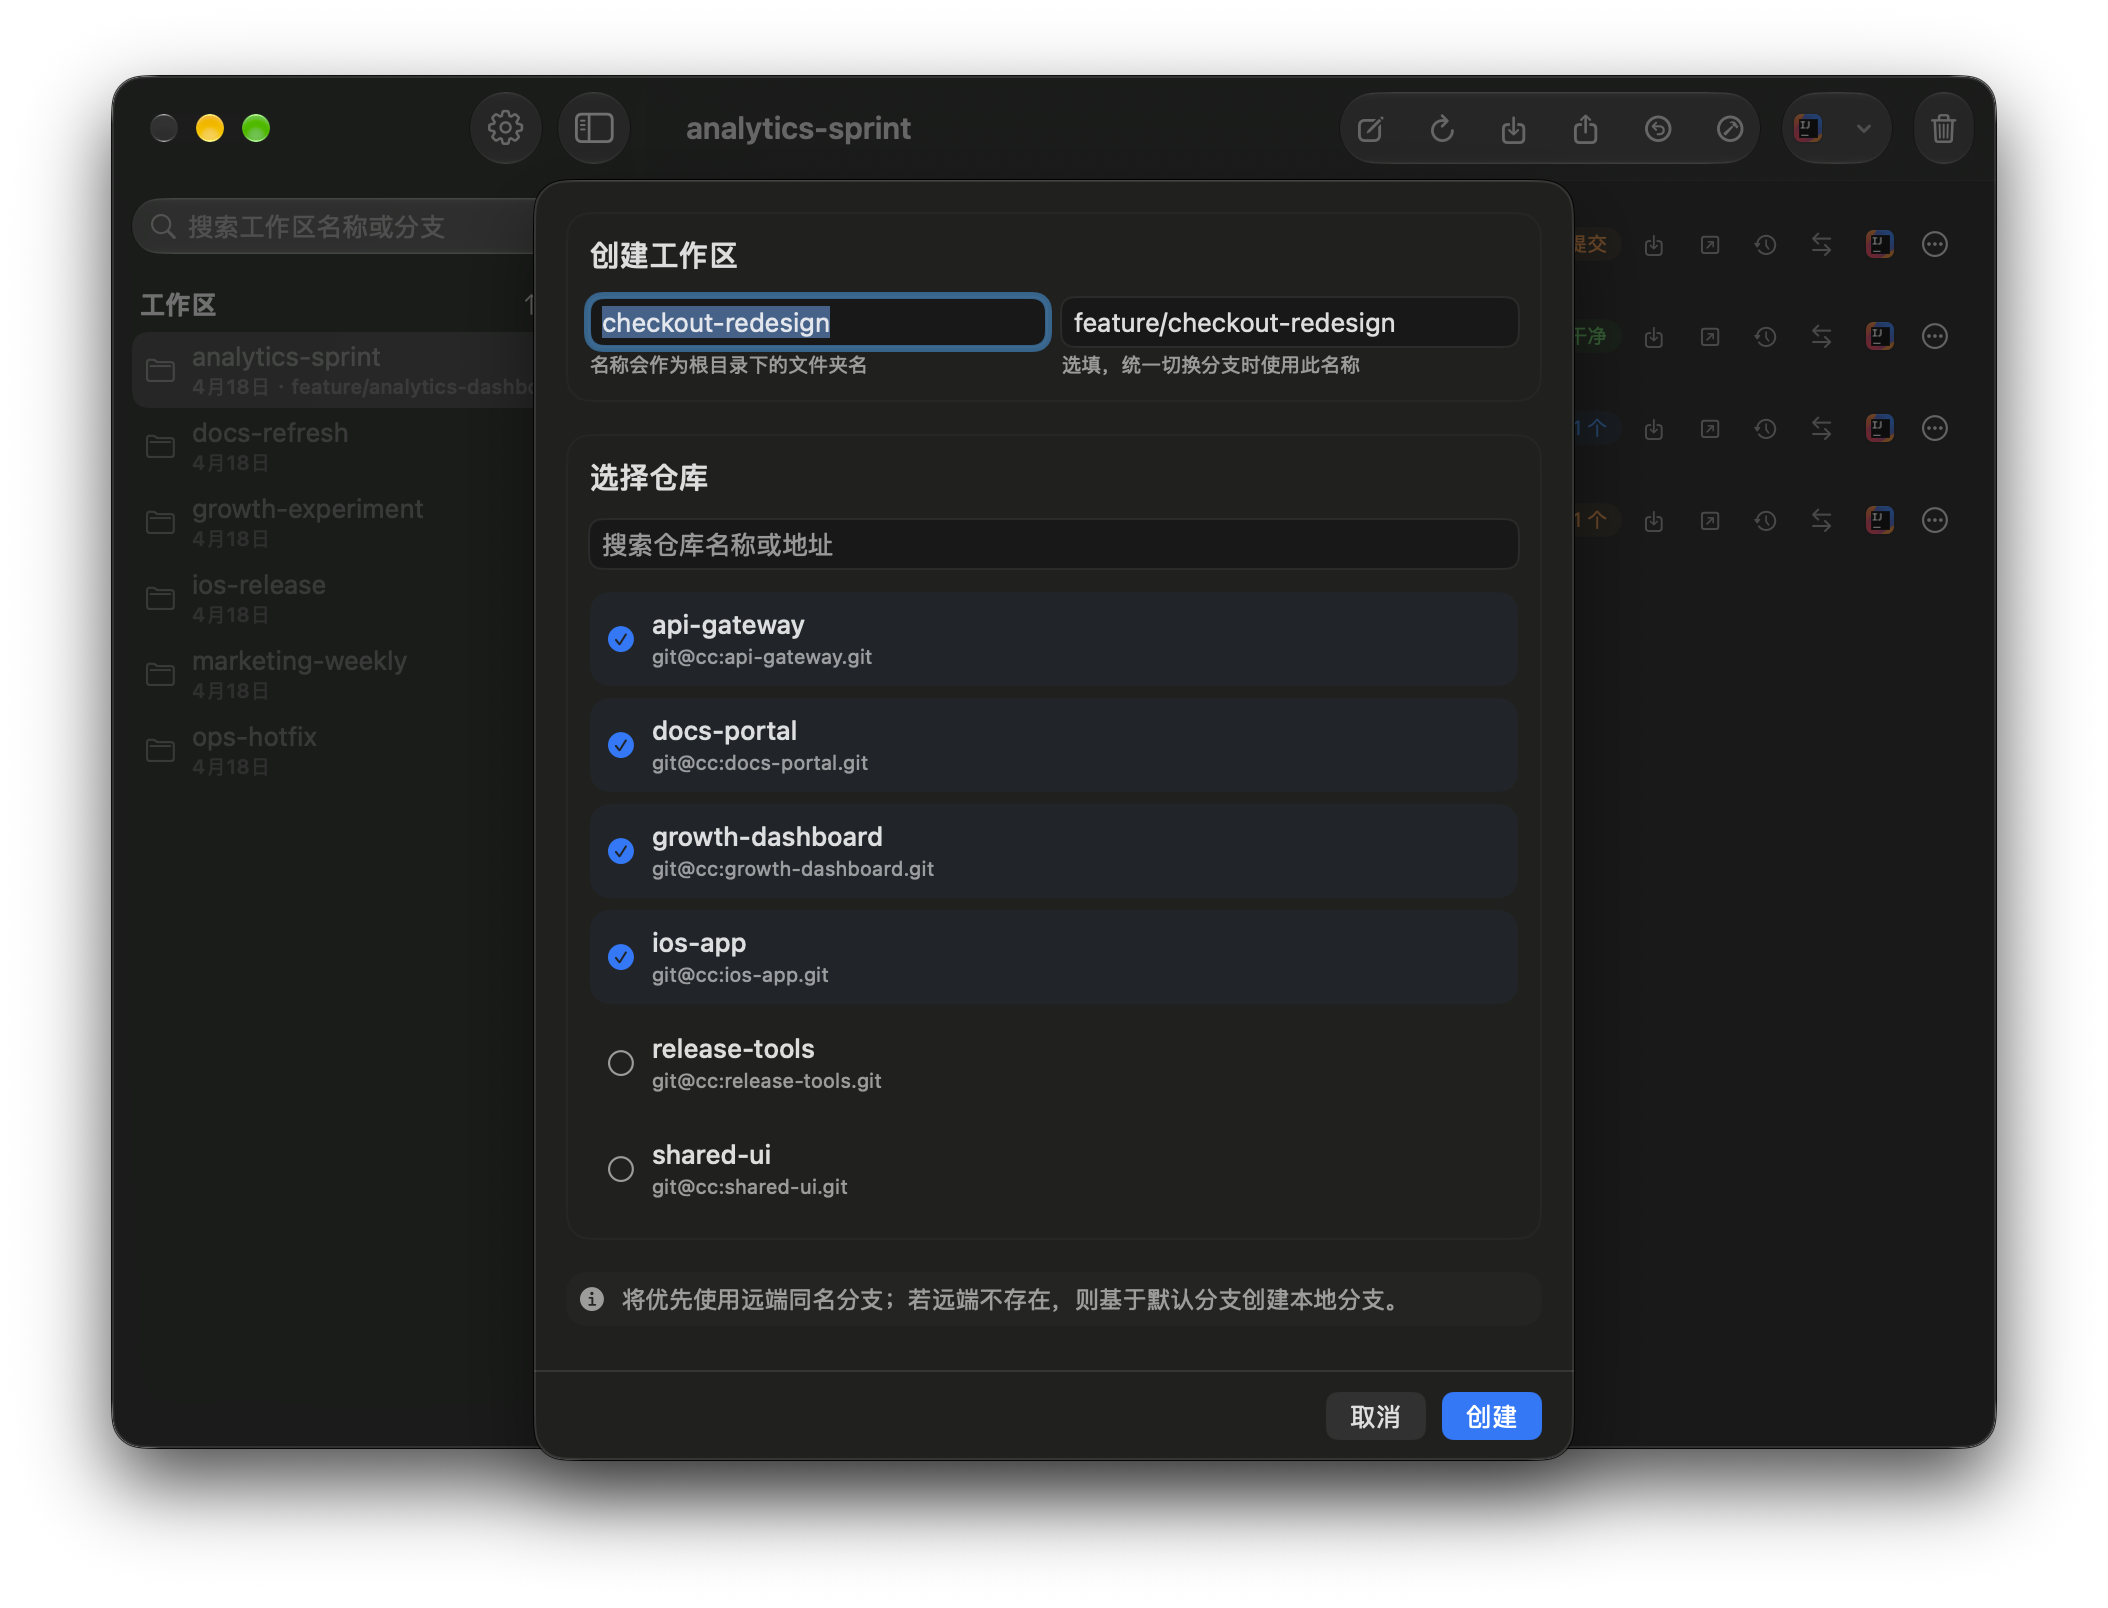
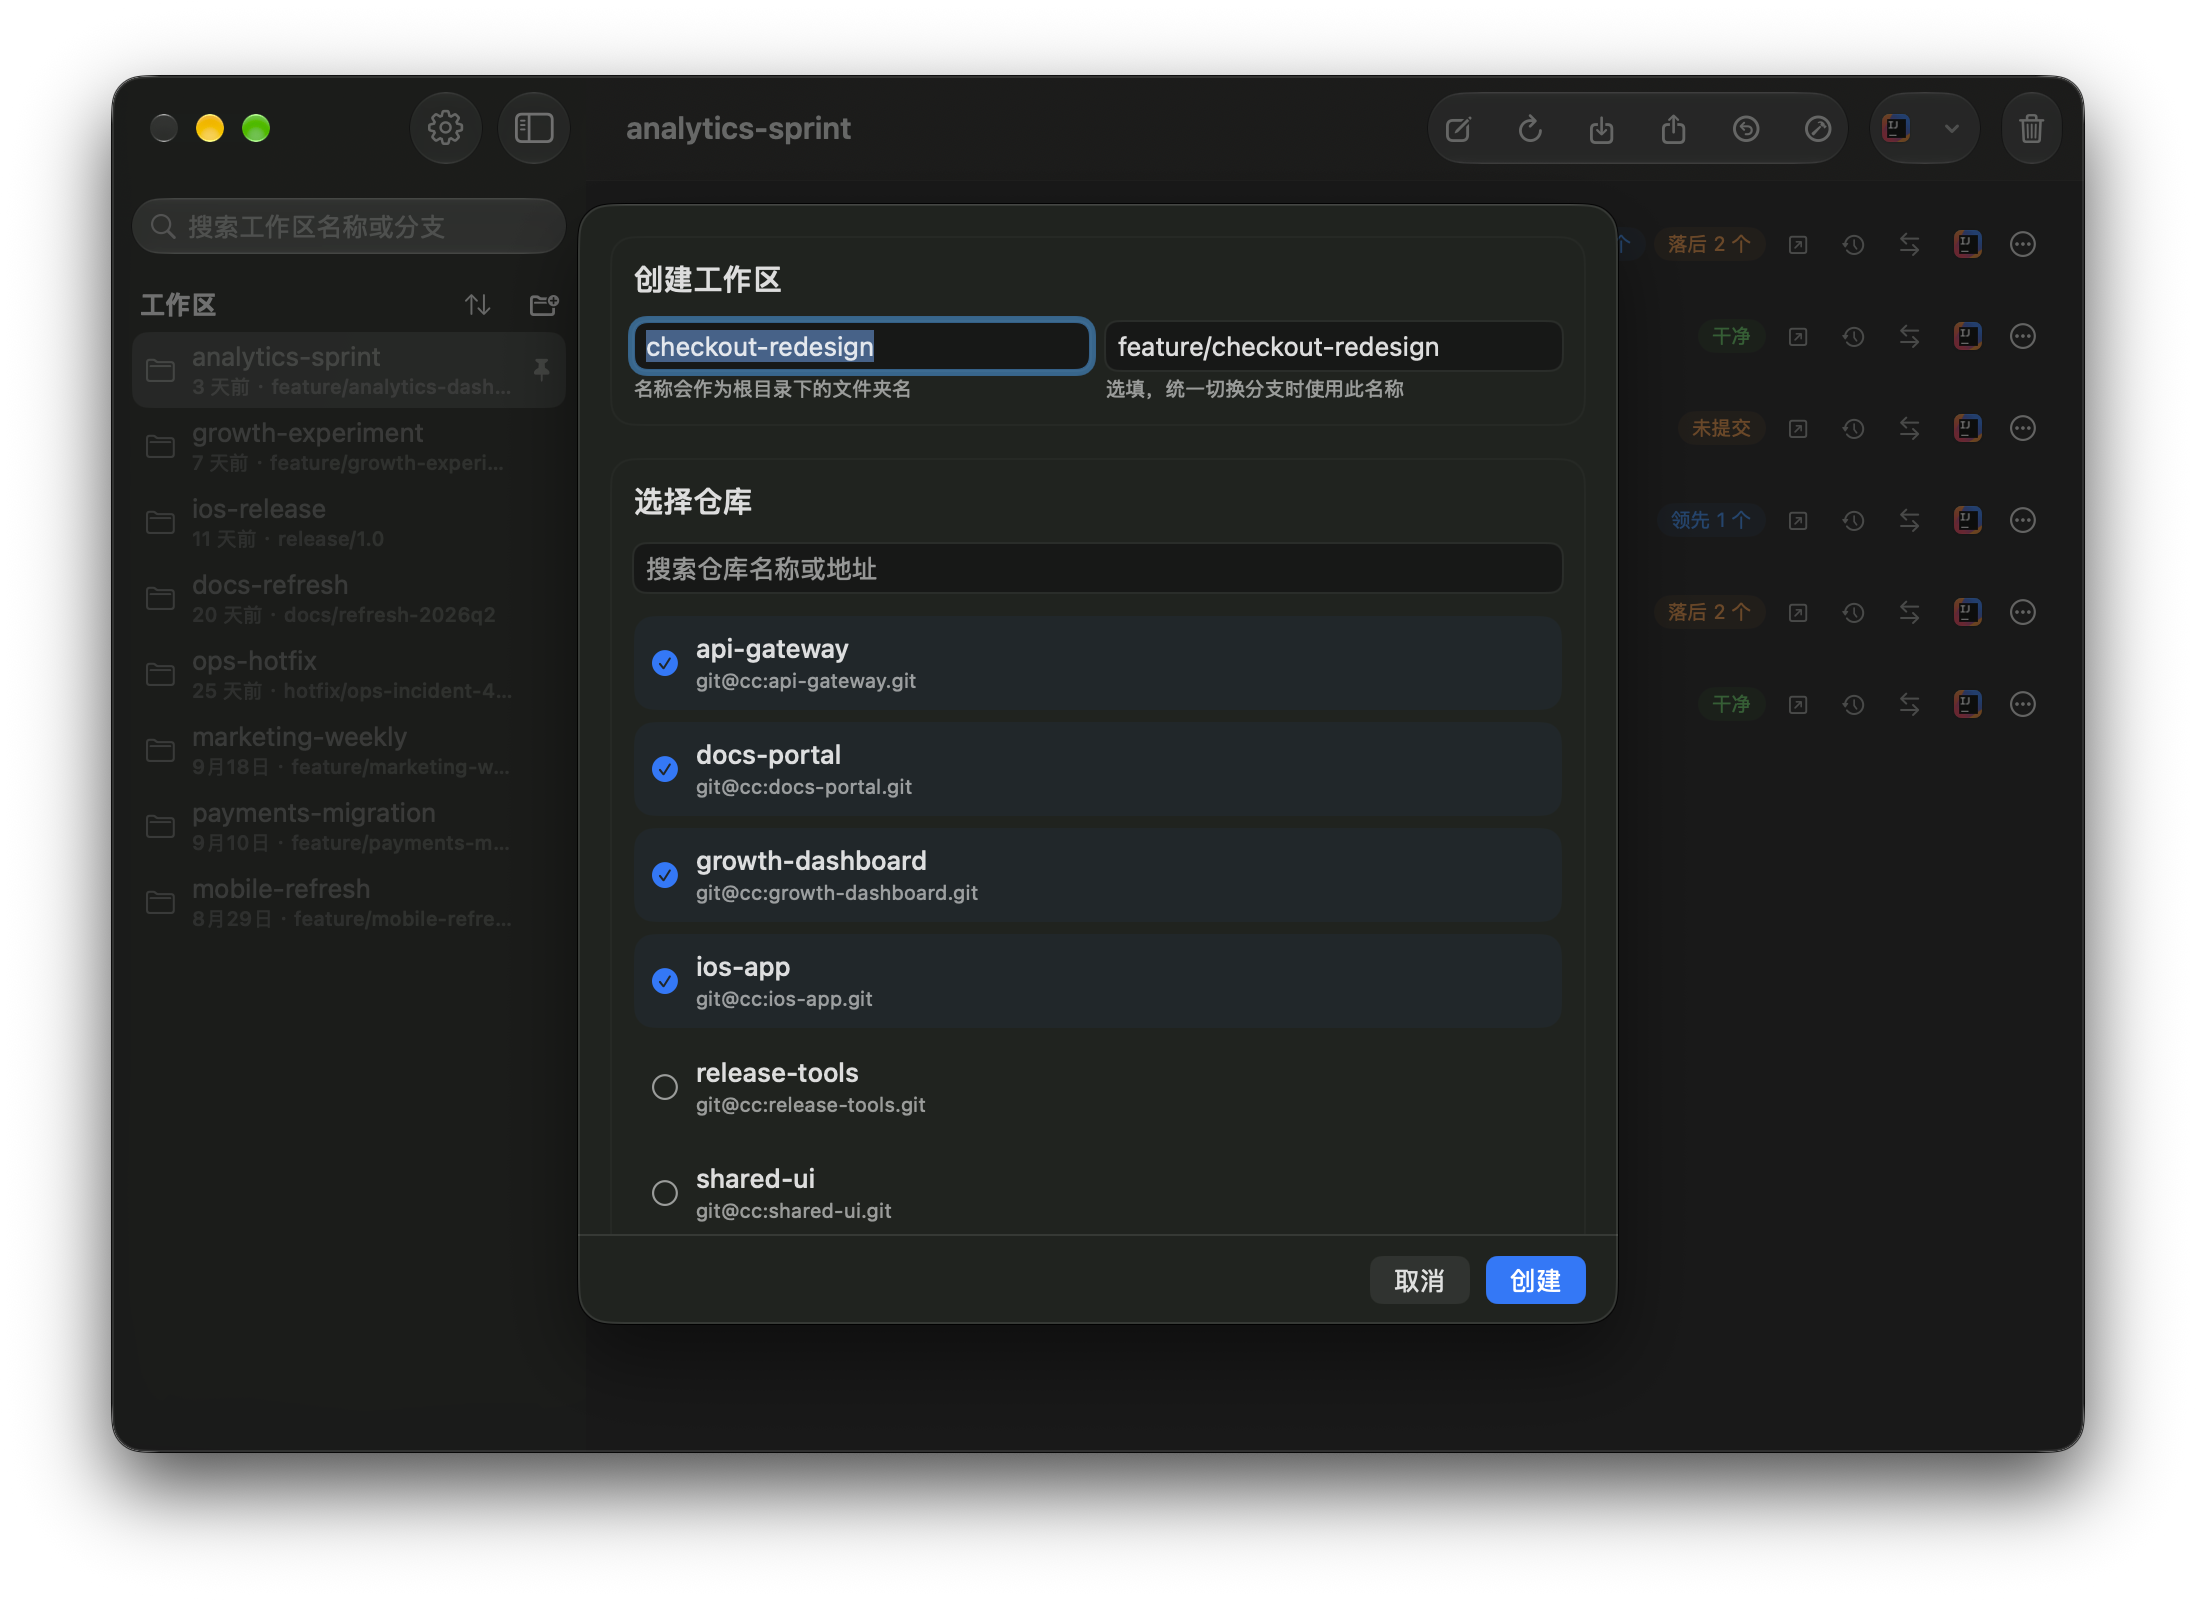
chore: 丰富 README 演示数据并重生成截图

diff --git a/Sources/CCSpace/Views/RootSplitView.swift b/Sources/CCSpace/Views/RootSplitView.swift
@@ -1,3 +1,4 @@
+import AppKit
 import os
 import SwiftUI
 
@@ -1129,6 +1130,9 @@ struct RootSplitView: View {
         case .settingsOverview:
             appViewModel.showRoute(.settings)
             createWorkplaceSheet = nil
+            // 设置页打开时 AppKit 会把首个可编辑控件(地址框)设成第一响应者,光标闪烁让截图
+            // 稳定采样永远等不到连续一致的帧。只在截图场景下延迟清掉,正常使用不受影响。
+            scheduleScreenshotFocusReset()
         case .workplaceDetail:
             if let workplace = launchConfiguration.targetWorkplace(
                 in: workplaceStore.workplaces
@@ -1151,6 +1155,15 @@ struct RootSplitView: View {
                     repositories: repositoryStore.repositories
                 )
             )
+        }
+    }
+
+    @MainActor
+    private func scheduleScreenshotFocusReset() {
+        Task { @MainActor in
+            try? await Task.sleep(for: .milliseconds(500))
+            let window = NSApp.windows.first { $0.isVisible && $0.canBecomeKey }
+            window?.makeFirstResponder(nil)
         }
     }
 
